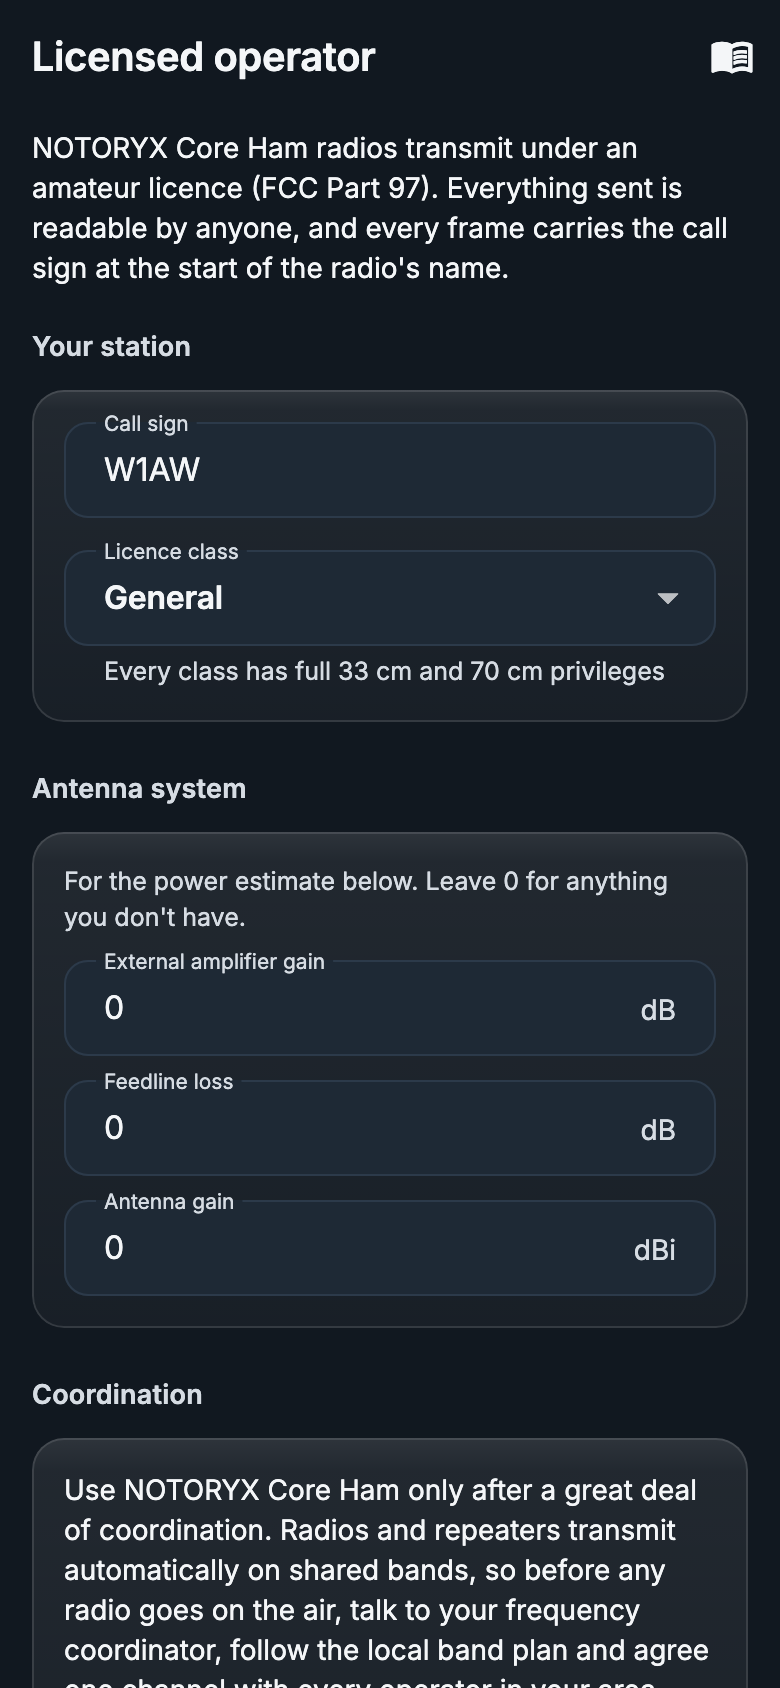
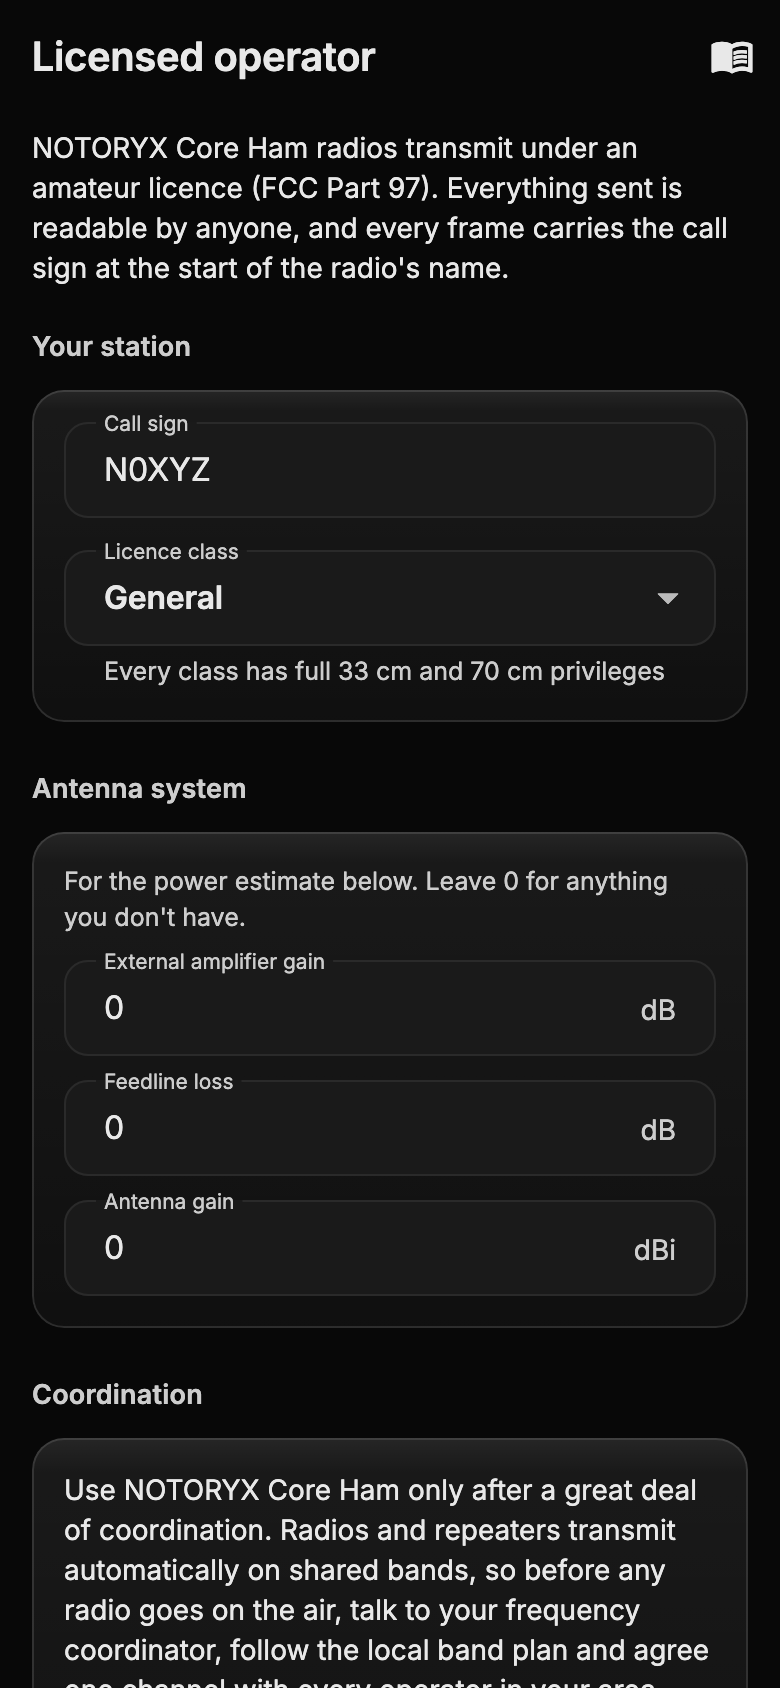
README and screenshots in the BLACKOUT look

Changed region(s): [[0.0615, 0.5545, 0.9231, 0.7701], [0.0615, 0.2464, 0.9231, 0.4005]]

diff --git a/README.md b/README.md
@@ -1,5 +1,5 @@
 <p align="center">
-  <img src="images/icon.png" width="110" alt="NOTORYX app icon">
+  <img src="images/banner.png" alt="NOTORYX Core Ham: engineered for independence">
 </p>
 
 # NOTORYX Core Ham releases
@@ -19,7 +19,7 @@ Downloads for **NOTORYX Core Ham**: off-grid LoRa mesh messaging for licensed US
 
 **Test builds only.** The newest (Android and Mac) is always at the top of **[the releases page](../../releases)**. The app and the [NOTORYX Ham firmware](https://github.com/TheLogsAreScreaming/NOTORYX-Core-Ham-Firmware) pass automated tests and a mesh simulator, but haven't been tested on the air yet. Use them on a bench with dummy loads or minimum power, and read the warning in each release first.
 
-The newest app build is **[0.1.0 test 17](../../releases/tag/v0.1.0-test.17)** (19 November 2026). It fixes a possible hang on the Android start screen in test 16, shows an unknown age instead of thousands of days for nodes whose radio clock was never set, and keeps range-ring labels clear of the map's bars. It hasn't been tried on a phone or radios yet. The newest firmware is [firmware test 4](../../releases/tag/v1.18.0-ham-test.4).
+The newest app build is **[0.1.0 test 19](../../releases/tag/v0.1.0-test.19)**. It brings the new **BLACKOUT** look: a new app icon, and BLACKOUT (matte black and steel) as the default theme. Blaze, Tactical, Okabe-Ito and Night Ops are still in Settings → Theme. It hasn't been tried on radios yet. The newest firmware is [firmware test 4](../../releases/tag/v1.18.0-ham-test.4).
 
 ## What it does
 
@@ -30,7 +30,9 @@ The newest app build is **[0.1.0 test 17](../../releases/tag/v0.1.0-test.17)** (
 - **Repeater logins without sending the password.**
 - **Licensed operator setup** in the app: call sign, licence class and a coordination acknowledgment.
 - Everything else from NOTORYX Core: check-ins, SOS, trip contacts, maps, path tools and field tools.
+- **BLACKOUT look:** matte black, charcoal and steel, with colour kept only where it carries meaning (signal, warnings, SOS). Four more themes in Settings → Theme.
 - **Recently added:**
+  - The new BLACKOUT app icon and default theme.
   - The Fresnel zone on line of sight.
   - A compass that points to any node (**Point me to it**).
   - A photo or colour per node.
@@ -50,15 +52,24 @@ Heltec V4 · Heltec T114 · RAK WisBlock / WisMesh (RAK4631) · RAK WisMesh 1W B
 Companion builds can be flashed from the browser with the **[web flasher](https://www.meshmayhem.org/hamwebflasher/)**. There's also a [download page](https://www.meshmayhem.org/ham/).
 
 <p align="center">
+  <img src="images/home.png" width="210" alt="Home: radio readings, Check in and Hold for SOS">
+  <img src="images/chats.png" width="210" alt="Chats: channels and direct messages">
   <img src="images/nodes.png" width="210" alt="Nodes named with call signs">
-  <img src="images/settings.png" width="210" alt="Settings with the Licensed operator card">
-  <img src="images/node_compass.png" width="210" alt="Compass pointing to a node">
 </p>
 
 <p align="center">
+  <img src="images/traffic_map.png" width="210" alt="Map with the live Traffic view">
+  <img src="images/settings.png" width="210" alt="Settings with the Licensed operator card">
+  <img src="images/themes.png" width="210" alt="Theme picker with BLACKOUT selected">
+</p>
+
+<p align="center">
+  <img src="images/node_compass.png" width="210" alt="Compass pointing to a node">
   <img src="images/node_look.png" width="210" alt="Choosing a colour or photo for a node">
   <img src="images/background.png" width="210" alt="Background settings">
 </p>
+
+Screenshots use made-up demo stations, not real call signs.
 
 ## Data files
 
